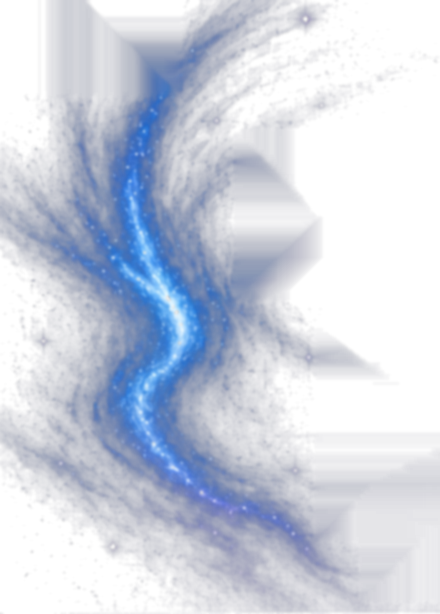
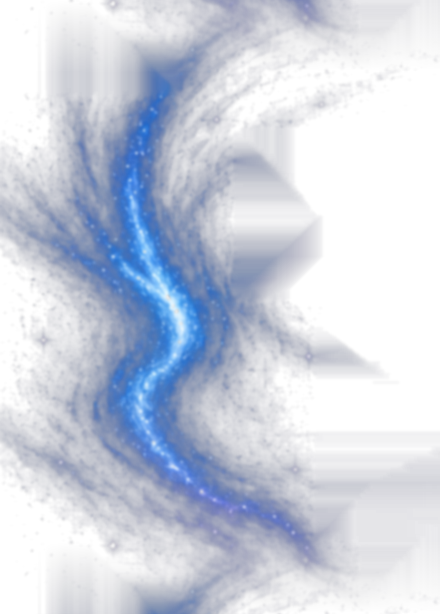
v15

diff --git a/src/styles.css b/src/styles.css
@@ -2346,3 +2346,38 @@ body, #root, button, input, textarea, select, .knot-loading, .profile-page, .set
   border-color: rgba(128,105,183,.16);
   background: rgba(250,248,255,.78);
 }
+
+/* -------------------------------------------------------------------------
+   KNOT v15 — seamless, continuously flowing nebula streams.
+   Only the two side-streams are changed in this pass.
+   ------------------------------------------------------------------------- */
+.welcome.knot-welcome .welcome-nebula-left,
+.welcome.knot-welcome .welcome-nebula-right {
+  background-repeat: repeat-y !important;
+  background-size: 112% 100% !important;
+  will-change: background-position-y !important;
+  transform: none !important;
+}
+
+.welcome.knot-welcome .welcome-nebula-left {
+  animation: knot-v15-stream-left 22s linear infinite !important;
+}
+
+.welcome.knot-welcome .welcome-nebula-right {
+  animation: knot-v15-stream-right 24s linear infinite !important;
+}
+
+@keyframes knot-v15-stream-left {
+  from { background-position: 0% 0%; }
+  to   { background-position: 0% 100%; }
+}
+
+@keyframes knot-v15-stream-right {
+  from { background-position: 100% 0%; }
+  to   { background-position: 100% 100%; }
+}
+
+@media (prefers-reduced-motion: reduce) {
+  .welcome.knot-welcome .welcome-nebula-left,
+  .welcome.knot-welcome .welcome-nebula-right { animation: none !important; }
+}
